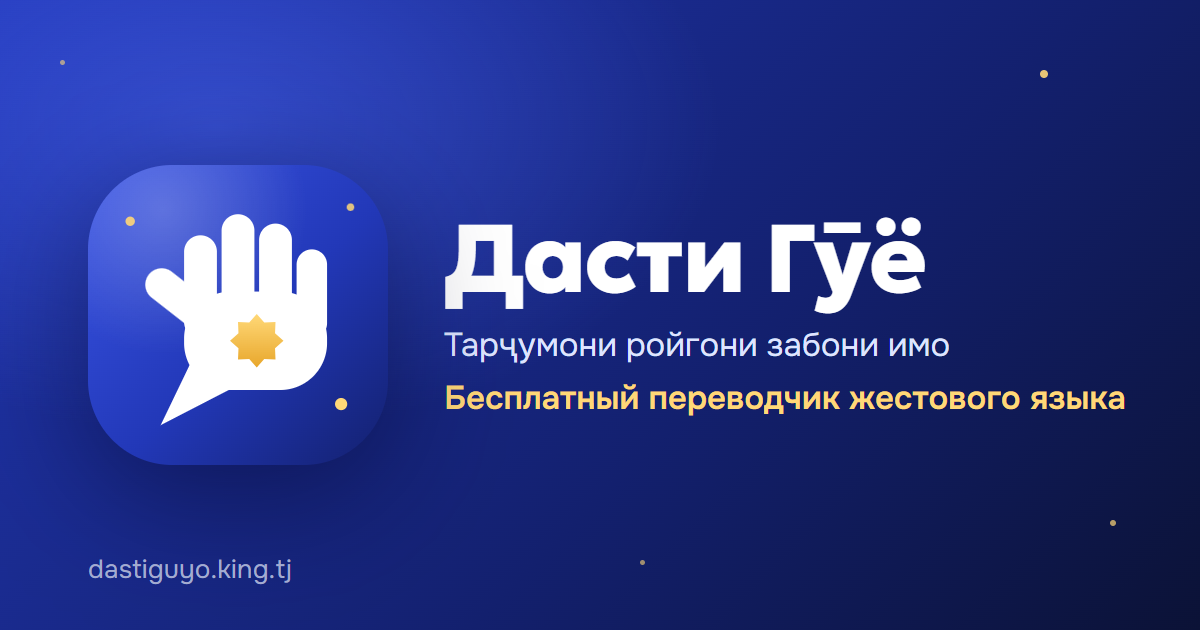
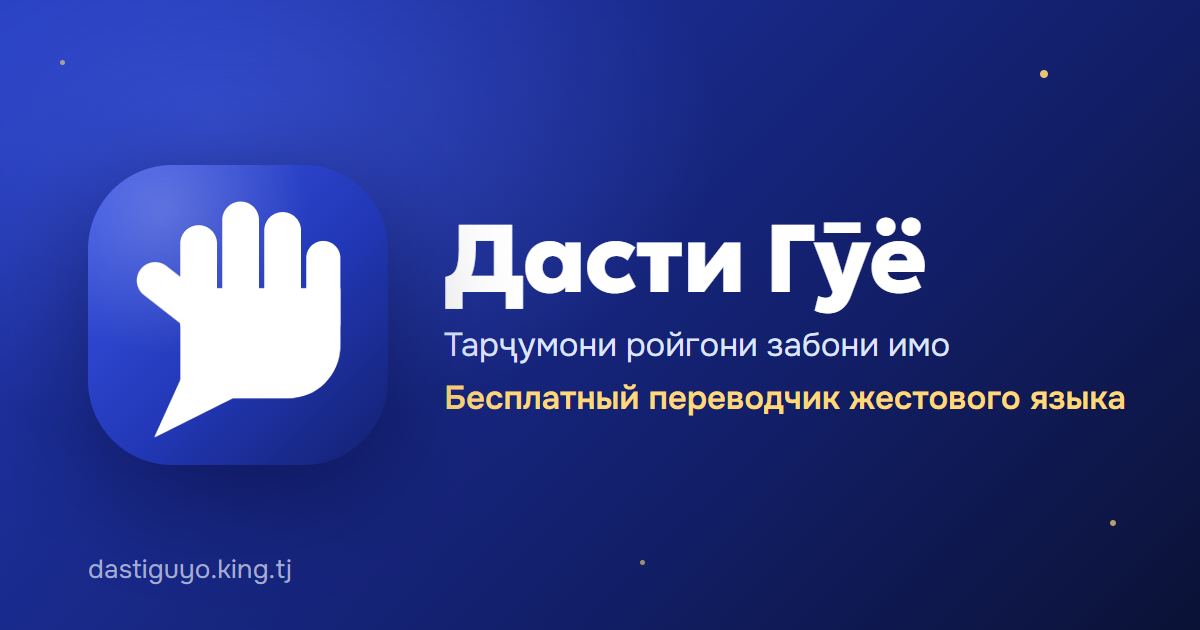
Логотип без скола и мелких точек: чистый на маленьком размере
- Ладонь и хвостик облачка — одна ровная фигура, без выщерблин
- Без золотых точек и звезды, ладонь крупнее — читается в шапке и во вкладке
- Значки приложения и картинка для ссылок перерисованы
- Значки и manifest не меняют адрес тяжёлых файлов на CDN

diff --git a/frontend/index.html b/frontend/index.html
@@ -5,7 +5,7 @@
     <meta name="viewport" content="width=device-width, initial-scale=1, viewport-fit=cover" />
     <meta name="theme-color" content="#F3F5FA" media="(prefers-color-scheme: light)" />
     <meta name="theme-color" content="#080C24" media="(prefers-color-scheme: dark)" />
-    <link rel="icon" type="image/svg+xml" href="/favicon.svg?v=3" />
+    <link rel="icon" type="image/svg+xml" href="/favicon.svg?v=5" />
     <!-- Установка как приложение (значок на телефоне, отдельное окно) — см. src/ui/pwa.js -->
     <link rel="manifest" href="/manifest.webmanifest" />
     <link rel="apple-touch-icon" href="/icons/apple-180.png?v=3" />
@@ -81,7 +81,7 @@
     </noscript>
     <header class="topbar">
       <a class="brand" href="#/">
-        <img class="brand-logo" src="/favicon.svg?v=3" alt="" width="40" height="40" />
+        <img class="brand-logo" src="/favicon.svg?v=5" alt="" width="40" height="40" />
         <span class="brand-name" data-i18n="app.title">Дасти Гӯё</span>
       </a>
       <nav class="tabs" data-i18n-aria-label="nav.label">
@@ -685,7 +685,7 @@
       <div class="foot-grid">
         <div class="foot-brand">
           <a class="brand" href="#/">
-            <img class="brand-logo" src="/favicon.svg?v=3" alt="" width="36" height="36" />
+            <img class="brand-logo" src="/favicon.svg?v=5" alt="" width="36" height="36" />
             <span class="brand-name">Дасти Гӯё</span>
           </a>
           <p data-i18n="foot.about"></p>

diff --git a/frontend/public/sw.js b/frontend/public/sw.js
@@ -6,10 +6,10 @@
 //   - страница и словарь с сервера — сначала из сети, без сети — из кэша.
 // При изменении списка файлов увеличьте VERSION — старый кэш удалится.
 
-const VERSION = 'v7'; // v7: новый голос, его список записей обновляется
+const VERSION = 'v8'; // v8: логотип без скола
 const CACHE = `dasti-guyo-${VERSION}`;
 
-const PRECACHE = ['./', 'index.html', 'favicon.svg?v=3', 'data/phrases.json', 'data/quick-phrases.json', 'audio/tts/index.json'];
+const PRECACHE = ['./', 'index.html', 'favicon.svg?v=5', 'data/phrases.json', 'data/quick-phrases.json', 'audio/tts/index.json'];
 
 // Ответы API, которые полезно иметь без сети
 const API_CACHE = ['/api/v1/dictionary', '/api/v1/models/latest'];

diff --git a/frontend/vite.config.js b/frontend/vite.config.js
@@ -15,7 +15,7 @@ function assetRef() {
     return execSync(
       'git log -1 --format=%H -- public ":(exclude)public/privacy.html" ":(exclude)public/favicon.svg" ' +
         '":(exclude)public/robots.txt" ":(exclude)public/sitemap.xml" ":(exclude)public/og.png" ' +
-        '":(exclude)public/audio/achernar" ":(exclude)public/sw.js"',
+        '":(exclude)public/audio/achernar" ":(exclude)public/sw.js" ":(exclude)public/icons" ":(exclude)public/manifest.webmanifest"',
       {
         cwd,
         encoding: 'utf8',
